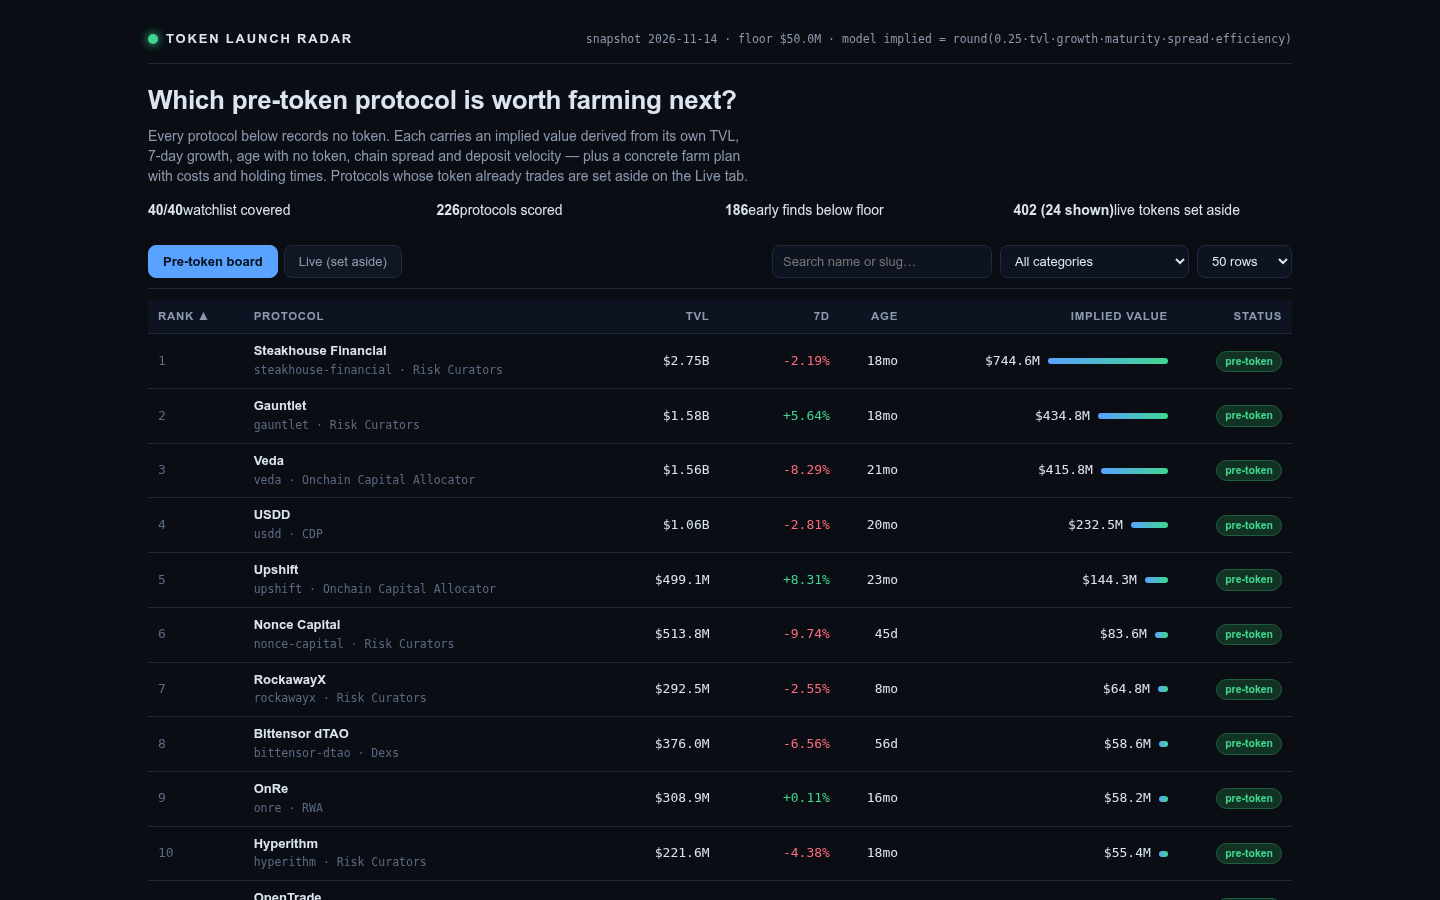
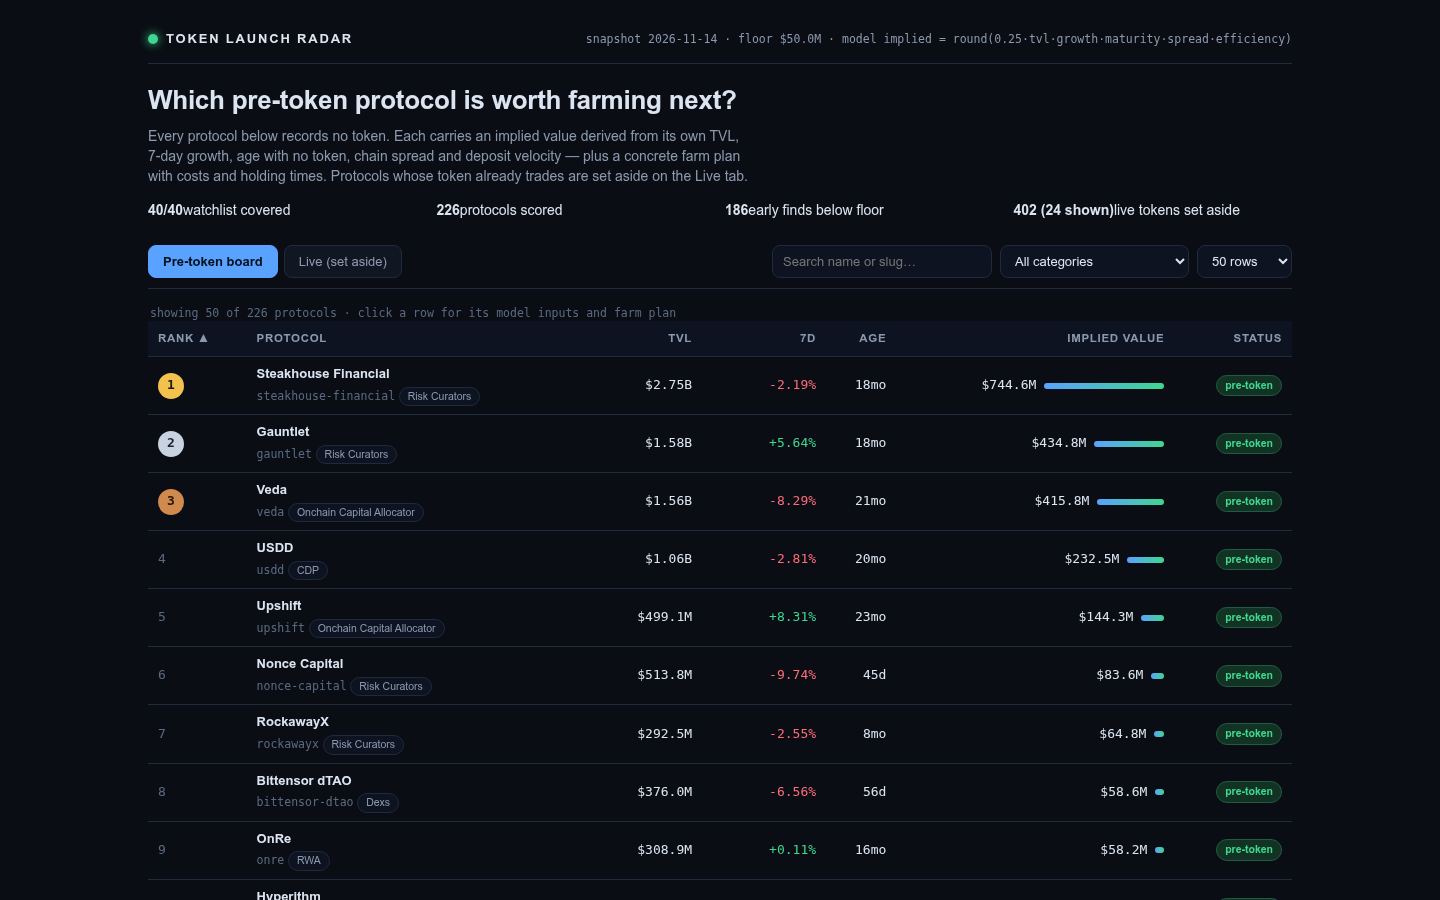
polish: bounty link, concrete farm rotation with calendar dates, medals, model inputs drawer

diff --git a/lib/model.ts b/lib/model.ts
@@ -149,20 +149,64 @@ export function actionFor(category: string | null, capital: number, chain: strin
   return `Put ${money} to work in the main ${name} product on ${chain}, interacting with it directly rather than through an aggregator.`;
 }
 
+/** Short name for the weekly qualifying touch, one per protocol kind. */
+export function weeklyVerb(category: string | null): string {
+  const c = (category ?? "").toLowerCase();
+  if (c.includes("restak") || (c.includes("liquid") && c.includes("stak")))
+    return "restaking top-up";
+  if (c.includes("lend") || c.includes("cdp") || c.includes("collateral") || c.includes("borrow") ||
+      c.includes("uncollateralized") || c.includes("money market") || c.includes("cedefi"))
+    return "supply-and-borrow touch";
+  if (c.includes("dex") || c.includes("amm") || c.includes("liquidity manager") || c.includes("market maker"))
+    return "swap-or-liquidity touch";
+  if (c.includes("curator") || c.includes("aggregat") || c.includes("allocat") || c.includes("index") ||
+      c.includes("vault") || c.includes("manager"))
+    return "vault-deposit touch";
+  if (c.includes("bridge") || c.includes("canonical"))
+    return "bridging touch";
+  if (c.includes("perp") || c.includes("deriv") || c.includes("option") || c.includes("predict") ||
+      c.includes("synth") || c.includes("basis") || c.includes("leverag") || c.includes("future"))
+    return "hedged perp touch";
+  if (c.includes("yield") || c.includes("farm"))
+    return "stake-and-compound touch";
+  if (c.includes("stak"))
+    return "staking touch";
+  if (c.includes("stable") || c.includes("anchor") || c.includes("reserve") || c.includes("money") ||
+      c.includes("payment") || c.includes("card"))
+    return "mint-or-hold touch";
+  if (c.includes("rwa") || c.includes("real") || c.includes("estate") || c.includes("treasur") || c.includes("credit"))
+    return "position top-up";
+  if (c.includes("insur"))
+    return "coverage touch";
+  if (c.includes("nft") || c.includes("gaming") || c.includes("collect"))
+    return "mint-or-trade touch";
+  return "product touch";
+}
+
+/** Calendar date holdDays after asOf (YYYY-MM-DD); deterministic. */
+export function endDate(asOf: string, holdDays: number): string {
+  const t = Date.parse(`${asOf}T00:00:00Z`);
+  if (!Number.isFinite(t)) return `at least ${holdDays} days out`;
+  return new Date(t + holdDays * 86400000).toISOString().slice(0, 10);
+}
+
 /** Seven concrete farm steps for one protocol; each trims to 20-600 characters. */
-export function farmSteps(p: ProtocolInput): string[] {
+export function farmSteps(p: ProtocolInput, asOf = "2026-11-14"): string[] {
   const first = p.chains[0] ?? "Ethereum";
   const capital = capitalFor(p.tvl_usd);
-  const age = ageDays(p.listed_at, "2026-11-14");
+  const touch = Math.max(5, Math.round(capital / 10));
+  const age = ageDays(p.listed_at, asOf);
   const hold = holdDaysFor(age);
   const weeks = weeksFor(hold);
+  const verb = weeklyVerb(p.category);
+  const end = endDate(asOf, hold);
   return [
     `Open a fresh wallet used only for ${p.name} on ${first}; back up the seed phrase offline and never mix it with other farms.`,
     `Fund it with ${moneyStr(capital)} for the position plus ${gasFor(first)} ${first} gas for fees, in a single transfer from an exchange.`,
     actionFor(p.category, capital, first, p.name),
-    `Repeat the qualifying action once a week for ${weeks} weeks so the wallet shows steady organic use, not one farmed burst.`,
-    `Leave the position working for at least ${hold} days; avoid early withdrawals since age and consistency are what a snapshot rewards.`,
-    `Check the official ${p.name} points or rewards page weekly with the farming wallet connected and confirm your balance accrues.`,
+    `Work a ${weeks}-week rotation on ${first}, one touch per week on different weekdays: (a) repeat the qualifying ${verb} above, (b) add a small about $${touch} top-up or swap, (c) open the points page with the farming wallet — then cycle.`,
+    `Leave the position working until at least ${end} (${hold} days from the ${asOf} snapshot); avoid early withdrawals since age and consistency are what a snapshot rewards.`,
+    `Every Monday, check the official ${p.name} points or rewards page with the farming wallet connected and confirm your balance accrues.`,
     `Log every deposit, transaction hash and weekly check in a farm journal with screenshots so you can claim fast if a token is announced.`,
   ];
 }

diff --git a/dashboard/app.js b/dashboard/app.js
@@ -126,10 +126,12 @@
       var val = v < 0 ? "—" : usd(v) + '<span class="bar" style="width:' + w + 'px"></span>';
       var badge = state.tab === "pre"
         ? '<span class="badge pre">pre-token</span>' : '<span class="badge live">live</span>';
+      var rankCell = r.rank != null && r.rank <= 3 && state.tab === "pre"
+        ? '<span class="medal m' + r.rank + '">' + r.rank + "</span>" : (r.rank || "—");
       return '<tr data-slug="' + esc(r.slug) + '"' + (state.open === r.slug ? ' class="sel"' : "") + ">" +
-        "<td>" + (r.rank || "—") + "</td>" +
+        "<td>" + rankCell + "</td>" +
         '<td><span class="name">' + esc(r.name) + '</span><br><span class="slug">' + esc(r.slug) +
-        " · " + esc(r.category || "Uncategorized") + "</span></td>" +
+        '</span> <span class="catchip">' + esc(r.category || "Uncategorized") + "</span></td>" +
         "<td>" + usd(r.tvl_usd) + "</td><td>" + pct(r.change_7d) + "</td><td>" + age(r.age_days) + "</td>" +
         "<td>" + val + "</td><td>" + badge + "</td></tr>";
     }).join("");
@@ -140,6 +142,9 @@
       };
     });
     $("empty").hidden = list.length > 0;
+    var cnt = $("count");
+    if (cnt) cnt.textContent = "showing " + shown.length + " of " + list.length +
+      " protocols" + (state.tab === "pre" ? " · click a row for its model inputs and farm plan" : "");
     renderDrawer();
     writeHash();
   }
@@ -161,8 +166,13 @@
       var ok = again === r.implied_value_usd;
       mid = '<div class="match ' + (ok ? "ok" : "bad") + '">' +
         "in-page recompute " + usd(again) + (ok ? " — matches board.json" : " — MISMATCH vs board.json " + usd(r.implied_value_usd)) + "</div>";
+      mid += "<h3>Model inputs — this row's own snapshot figures</h3><div class=\"facts\">" +
+        fact("tvl_usd", "$" + String(r.tvl_usd)) +
+        fact("change_7d", r.change_7d == null ? "null" : String(r.change_7d)) +
+        fact("listed_at", r.listed_at == null ? "null" : String(r.listed_at)) +
+        fact("chains (" + r.chains.length + ")", r.chains.join(", ")) + "</div>";
       if (r.model) {
-        mid += "<h3>Model inputs</h3><div class=\"facts\">" +
+        mid += "<h3>Derived factors</h3><div class=\"facts\">" +
           fact("base 0.25×TVL", usd(Math.round(r.model.base))) +
           fact("growth mult", Number(r.model.growthMult).toFixed(3) + "×") +
           fact("maturity", Number(r.model.maturity).toFixed(3) + "×") +

diff --git a/dashboard/app.css b/dashboard/app.css
@@ -48,6 +48,14 @@ tbody tr.sel td{background:#16263d}
 .badge{display:inline-block;font-size:10.5px;font-family:var(--sans);font-weight:700;padding:2px 8px;border-radius:20px}
 .badge.pre{background:#123324;color:var(--up);border:1px solid #1f5c40}
 .badge.live{background:#3a2b10;color:var(--gold);border:1px solid #6b521a}
+.catchip{display:inline-block;font-size:10.5px;font-family:var(--sans);color:var(--dim);
+  background:var(--panel2);border:1px solid var(--line);border-radius:20px;padding:1px 8px;margin-top:3px}
+.medal{display:inline-block;min-width:26px;height:26px;line-height:24px;text-align:center;border-radius:50%;
+  font-weight:800;font-family:var(--mono);font-size:13px}
+.medal.m1{background:var(--gold);color:#231a05}
+.medal.m2{background:#c8d2e0;color:#1a2230}
+.medal.m3{background:#d08a4e;color:#2a1705}
+.count{font-family:var(--mono);font-size:11.5px;color:var(--faint);padding:6px 2px 0}
 .empty{text-align:center;padding:40px;color:var(--dim)}
 .empty button{background:var(--accent);border:0;border-radius:8px;padding:8px 18px;font-weight:700;cursor:pointer}
 .drawer{position:fixed;top:0;right:0;width:min(480px,94vw);height:100vh;overflow-y:auto;background:var(--panel);

diff --git a/dashboard/index.html b/dashboard/index.html
@@ -39,6 +39,7 @@
   </section>
 
   <section class="boardwrap">
+    <div class="count" id="count"></div>
     <table id="board">
       <thead><tr id="headrow"></tr></thead>
       <tbody id="rows"></tbody>

diff --git a/main.ts b/main.ts
@@ -100,7 +100,7 @@ for (const p of picked.values()) {
       efficiency: m.efficiency,
     },
     age: m.ageDays,
-    steps: farmSteps(p),
+    steps: farmSteps(p, asOf),
   });
 }
 

diff --git a/README.md b/README.md
@@ -4,6 +4,8 @@
 
 # Token Launch Radar
 
+Bounty page: https://make.fun/bounty/token-radar-01
+
 Ranks every pre-token protocol in the sealed snapshot by an implied value derived from its own TVL, 7-day growth, age with no token, chain spread and deposit velocity — each row carrying a concrete 7-step farm plan with costs and holding times.
 
 ## Run it
